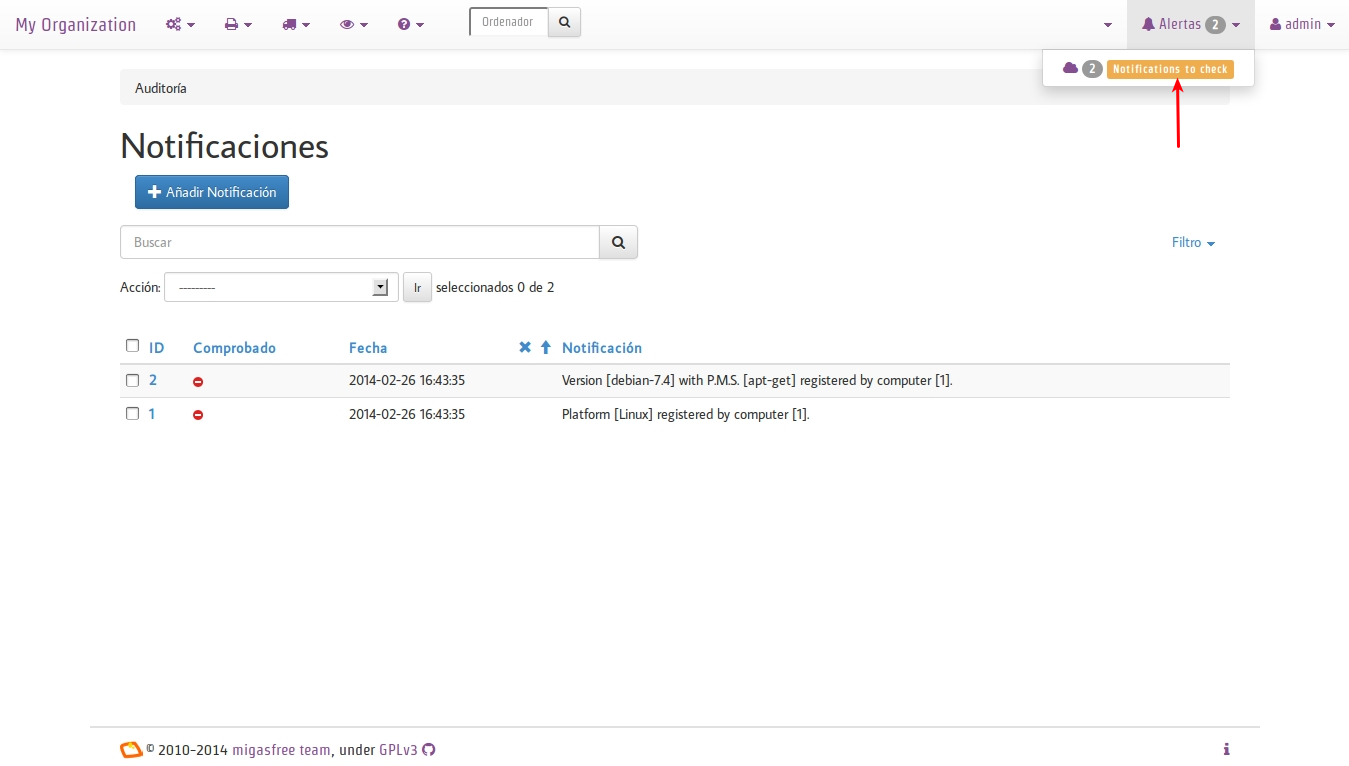
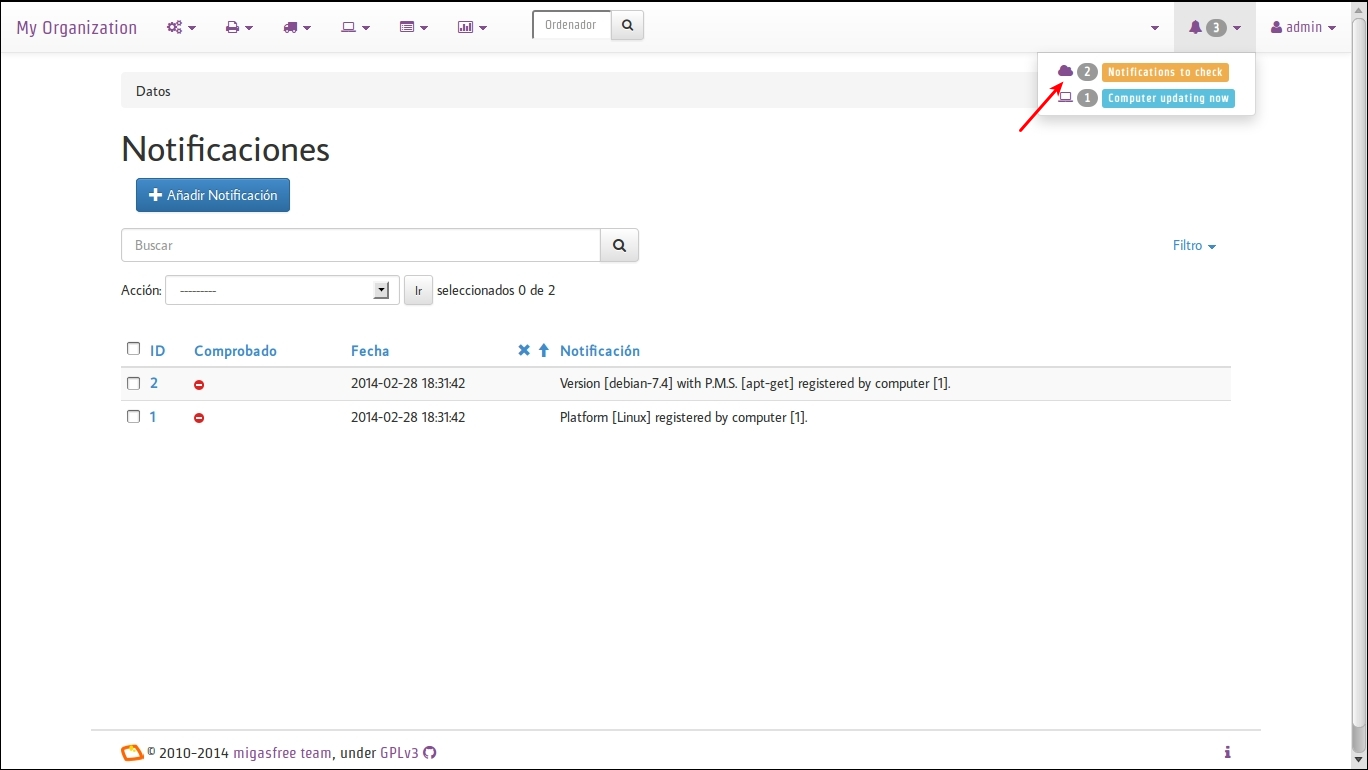
Actualización capitulo 5

diff --git a/chapter05.rst b/chapter05.rst
@@ -320,8 +320,7 @@ navegador web.
 
 
 
-* Accede a ``Auditoría - Ordenadores`` (pulsando en el símbolo del ojo) y
-  observa: (figura 5.4)
+* Accede a ``Datos - Ordenadores`` y observa: (figura 5.4)
 
     * Los datos del ordenador ``1`` (pulsando en el número 1)
 
